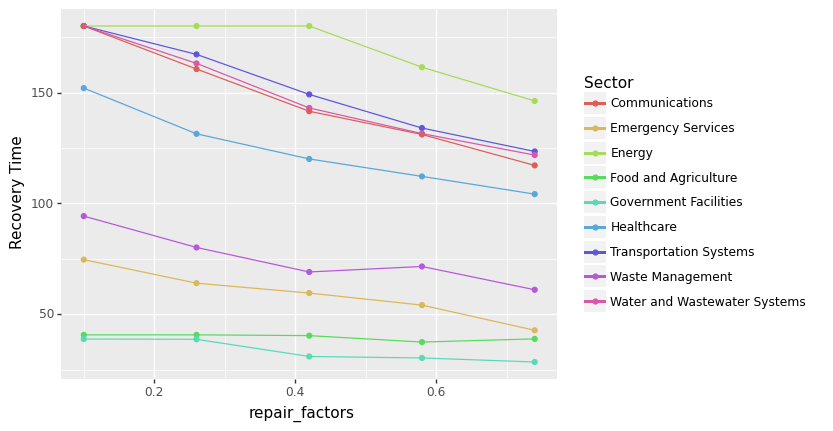
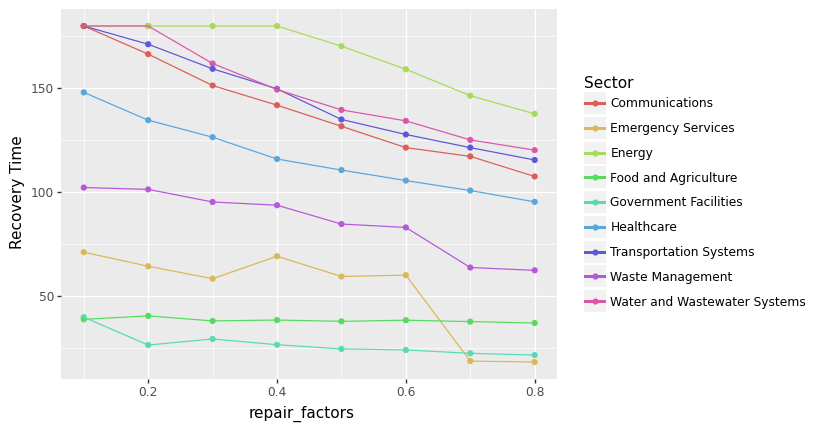
adding modifications for contaminated infrastructures

diff --git a/EfficiencyCalculatorMod.py b/EfficiencyCalculatorMod.py
@@ -5,7 +5,7 @@ Generated by ArcGIS ModelBuilder on : 2020-05-04 12:12:30
 import arcpy
 from sys import argv
 import os
-import pandas
+import pandas as pd
 import json
 import arcpy, sys, os, arcgis, requests 
 import urllib
@@ -56,16 +56,39 @@ def createLayerFromAPI(url, name, OutputPath):
         arcpy.JSONToFeatures_conversion(path, arcpy.env.workspace + "\\" + name, "POINT")
         arcpy.JSONToFeatures_conversion(path, path_parent + "\\Interim Files\\" + name, "POINT")
 
+def getInfName(infrastructures):
+    if "Wastewater" in infrastructures:
+        return "CWP_NAME"
+    if "Roads" in infrastructures:
+        return "Information"
+    if "Land_Mobile" in infrastructures:
+        return "LICENSEE"
+    # Landfills, Government, Power plants, Urgent Care, Fire Stations, Hospitals, EMC
+    return "NAME"
+
+def getAffectedInfrastructures(contaminated_shapefile, infrastructures, iname):
+    
+    path_parent = os.path.dirname(arcpy.env.workspace)
+    outPolygons = path_parent + "\\contaminated_infrastructure"
+    arcpy.Intersect_analysis(in_features=[contaminated_shapefile,infrastructures],
+                                 out_feature_class=outPolygons,output_type="INPUT")
+    infrastructureName = getInfName(infrastructures)
+    results = pd.DataFrame(columns = ["Building Name", "Coordinates", "Address"])
+    try:
+        for row in arcpy.da.SearchCursor(outPolygons+".shp", ["SHAPE@XY", infrastructureName]):
+            results.append({"Building Name": row[1], "Coordinates": row[0], "Address": 0})
+            newPath = path_parent + "//Results//" + iname + "_contaminated.csv"
+            results.to_csv(newPath)
+    except:
+        arcpy.AddMessage("No " + iname + " in area")
+
+        
+
 def createFarmland(farmland, incident_shapefile, area_of_interest, OutputPath):
         import arcpy
         count = 0
         # Fetch each feature from the cursor and examine the extent properties
-        
-        #extent = row[0].extent
-        #arcpy.AddMessage('Extent of place:')
-        #arcpy.AddMessage('XMin: {}, YMin: {}'.format(extent.XMin, extent.YMin))
-        #arcpy.AddMessage('XMax: {}, YMax: {}'.format(extent.XMax, extent.YMax))
-        #arcpy.env.overwriteOutput = True
+
         # Process: Add Geometry Attributes (Add Geometry Attributes) (management)
         area_shapefile_copy = arcpy.env.workspace + "\\farm_copy"
         arcpy.CopyFeatures_management(area_of_interest, area_shapefile_copy)
@@ -189,7 +212,7 @@ def getPercentage(name, shapefile, Infrastructure_Dataset, ScenarioDataset, buff
 ##                results4 = row[0]
         return ((1-results/results2)*100)
 
-def EfficiencyCalculator(ScenarioDataset="dissolved2", Infrastructure_Dataset="HoustonBlocks", OutputPath = "C:/Documents", GUI_Tool_Location = "C:/Documents"):  # EfficiencyCalculator
+def EfficiencyCalculator(ScenarioDataset="dissolved2", Contaminated_Dataset = "contaminated", Infrastructure_Dataset="HoustonBlocks", OutputPath = "C:/Documents", GUI_Tool_Location = "C:/Documents"):  # EfficiencyCalculator
 
     # To allow overwriting outputs change overwriteOutput option to True.
     arcpy.env.overwriteOutput = True
@@ -205,19 +228,29 @@ def EfficiencyCalculator(ScenarioDataset="dissolved2", Infrastructure_Dataset="H
     #HIFLD counts
     #getHIFLDlayers(OutputPath)
     
-    (waste) = getPercentage("landfill", "Landfills_HIFLD", Infrastructure_Dataset, ScenarioDataset, "0.5 Mile", OutputPath)
+    (waste) = getPercentage("landfills", "Landfills_HIFLD", Infrastructure_Dataset, ScenarioDataset, "0.5 Mile", OutputPath)
+    getAffectedInfrastructures(Contaminated_Dataset, "Landfills_HIFLD","landfills")
     (ports) = getPercentage("ports", "Ports_HIFLD", Infrastructure_Dataset, ScenarioDataset, "1 Mile", OutputPath)
+    getAffectedInfrastructures(Contaminated_Dataset, "Ports_HIFLD","ports")
     (power_plants) = getPercentage("plants", "Power_Plants_HIFLD", Infrastructure_Dataset, ScenarioDataset, "0.5 Mile", OutputPath)
-
+    getAffectedInfrastructures(Contaminated_Dataset, "Power_Plants_HIFLD", "plants")
     (wastewater) = getPercentage("wastewater", "Wastewater_Treatment_Plants_HIFLD", Infrastructure_Dataset, ScenarioDataset, "0.5 Mile", OutputPath)
+    getAffectedInfrastructures(Contaminated_Dataset, "Wastewater_Treatment_Plants_HIFLD", "wastewater")
     (hospitals) = getPercentage("hospitals", "Hospital_Locations_HIFLD", Infrastructure_Dataset, ScenarioDataset, "1 Mile", OutputPath)
+    getAffectedInfrastructures(Contaminated_Dataset, "Hospital_Locations_HIFLD", "hospitals")
     (gov) = getPercentage("government", "Major_State_Government_Buildings_HIFLD", Infrastructure_Dataset, ScenarioDataset, "0.5 Mile", OutputPath)
+    getAffectedInfrastructures(Contaminated_Dataset, "Major_State_Government_Buildings_HIFLD", "government")
     (comm) = getPercentage("cell", "Cellular_Towers_HIFLD", Infrastructure_Dataset, ScenarioDataset, "1 Mile", OutputPath)
+    getAffectedInfrastructures(Contaminated_Dataset, "Cellular_Towers_HIFLD", "cell")
     (broadcast) = getPercentage("broad", "Land_Mobile_Broadcast_Tower_HIFLD", Infrastructure_Dataset, ScenarioDataset, "1 Mile", OutputPath)
+    getAffectedInfrastructures(Contaminated_Dataset, "Land_Mobile_Broadcast_Tower_HIFLD", "broad")
     comm = (comm + broadcast)/2
     (roads) = getPercentage("roads", "USA_Roads", Infrastructure_Dataset, ScenarioDataset, "0.25 Mile", OutputPath)
+    getAffectedInfrastructures(Contaminated_Dataset, "USA_Roads", "roads")
     (fire) = getPercentage("fire", "Fire_Stations_HIFLD", Infrastructure_Dataset, ScenarioDataset, "0.5 Mile", OutputPath)
+    getAffectedInfrastructures(Contaminated_Dataset, "Fire_Stations_HIFLD", "fire")
     (ems) = getPercentage("ems", "Emergency_Medical_Center_HIFLD", Infrastructure_Dataset, ScenarioDataset, "0.5 Mile", OutputPath)
+    getAffectedInfrastructures(Contaminated_Dataset, "Emergency_Medical_Center_HIFLD", "ems")
 
     farm = createFarmland("USA_Soils_Farmland_Class", ScenarioDataset, Infrastructure_Dataset, OutputPath)
             

diff --git a/sensitivity_GUI.py b/sensitivity_GUI.py
@@ -125,13 +125,13 @@ class sensitivityAnalysis(object):
             elif self.parameter == "Efficiency of Backups":
               depBackups = list(range(9))
               depBackups.pop(sectorInt)
-              days = [days_default] * (len(sectors)-1)
+              days = [10] * (len(sectors)-1)
               backs = [sectorInt] * (len(sectors)-1)
               percents = [start]*(len(sectors)-1)
-              data["daysBackup"] = data["daysBackup"].append(days)
-              data["backupPercent"] = data["backupPercent"].append(percents)
-              data["depBackup"] = data["depBackup"].append(depBackups)
-              data["backups"] = data["backups"].append(backs)
+              data["daysBackup"] = days
+              data["backupPercent"] = percents
+              data["depBackup"] = depBackups
+              data["backups"] = backs
             name = start
             if start < 1:
               name = round(start * 100, 0)
@@ -343,7 +343,6 @@ def main():
             db_check = tk.Checkbutton(self, text='Days Backup', var=backup_days_bool, font=("Arial", 10)).grid(row=4, sticky=tk.W, column = 0)
             de_check = tk.Checkbutton(self, text='Efficiency of Backup', var=backup_efficiency_bool, font=("Arial", 10)).grid(row=6, sticky=tk.W, column = 0)
             ie_check = tk.Checkbutton(self, text='Initial Efficiency', var=initial_efficiency_bool, font=("Arial", 10)).grid(row=8, sticky=tk.W, column = 0)
-
 
             tk.Label(self, text='Parameter Mins', font=("Arial", 12)).grid(row=1, sticky=tk.W, column = 1)
             rp_min_text = tk.Label(self, text='Repair Factors Min:', font=("Arial", 10)).grid(row=2, sticky=tk.W, column = 1)
